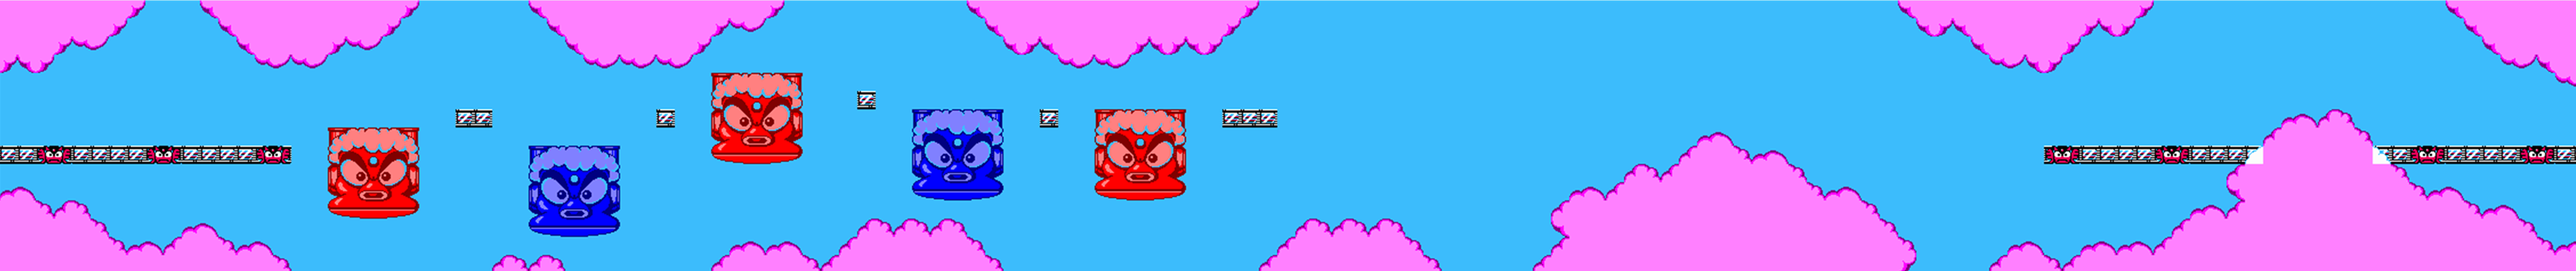
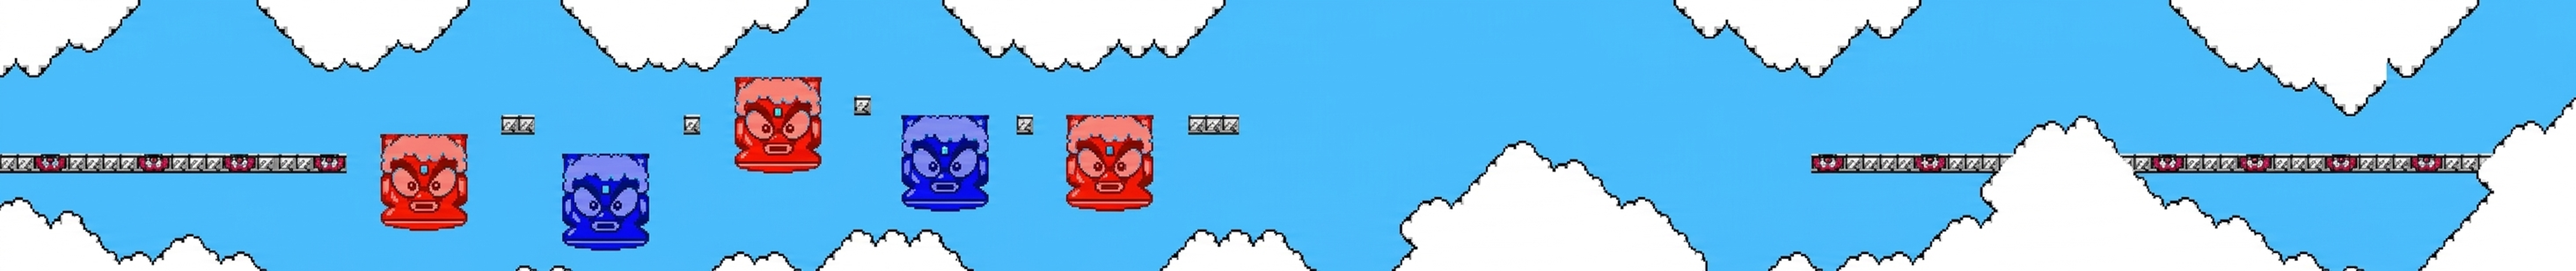
Update background resources and fix all positions

diff --git a/src/Menu/ScreenGameplay.cpp b/src/Menu/ScreenGameplay.cpp
@@ -14,30 +14,25 @@
 
 const std::array<Rectangle, 7> ScreenGameplayState::kPlatforms{
 	// Initial floor
-	Rectangle{ 0.0f,    429.0f, 860.0f, 56.0f },
+	Rectangle{ 0.f, 455.f, 1021.f, 56.f },
 
 	//Small platforms, from left to right.
-	Rectangle{ 1341.0f, 322.0f, 110.0f, 56.0f },
-	Rectangle{ 1932.0f, 322.0f,  57.0f, 56.0f },
-	Rectangle{ 2524.0f, 268.0f,  57.0f, 56.0f },
-	Rectangle{ 3062.0f, 322.0f,  56.0f, 56.0f },
-	Rectangle{ 3600.0f, 322.0f, 164.0f, 56.0f },
+	Rectangle{ 1477.f, 341.f,  97.f, 56.f },
+	Rectangle{ 2014.f, 343.f,  48.f, 54.f },
+	Rectangle{ 2517.f, 288.f,  48.f, 52.f },
+	Rectangle{ 2996.f, 343.f,  46.f, 54.f },
+	Rectangle{ 3501.f, 341.f, 148.f, 56.f },
 
 	// Last long floor (until end).
-	Rectangle{
-		6020.0f,
-		429.0f,
-		8593.f - 6020.0f,
-		56.0f
-	}
+	Rectangle{ 5336.f, 456.f, 7588.f - 5336.f, 55.f }
 };
 
 const std::array<Vector2, 5> ScreenGameplayState::kCopipiSpawns{
-	Vector2{750.f, 374.f},
-	Vector2{1600.f, 267.f},
-	Vector2{2850.f, 267.f},
-	Vector2{3550.f, 267.f},
-	Vector2{6500.f, 374.f}
+    Vector2{  890.f, 400.f },
+    Vector2{ 1710.f, 288.f },
+    Vector2{ 2806.f, 288.f },
+    Vector2{ 3453.f, 286.f },
+    Vector2{ 6025.f, 401.f }
 };
 
 ScreenGameplayState::ScreenGameplayState()
@@ -60,7 +55,7 @@ void ScreenGameplayState::InitScreen(void)
 	gameManager.SetGameResult(GameResult::Playing);
 	gameManager.ResetCamera();
 
-	stageTexture_ = LoadTexture("resources/Game/Stages/AirManStage_Backup.png");
+	stageTexture_ = LoadTexture("resources/Game/Stages/AirManStage.png");
 
 	// Player
 	player_.InitGameCharacter();
@@ -80,20 +75,20 @@ void ScreenGameplayState::InitScreen(void)
 
 	// Lifts
 	liftTexture_ = LoadTexture("resources/Game/Enemies/Lift.png");
-	lifts_[0].Init(3900.f, 4500.f, 322.f, false, liftTexture_);
-	lifts_[1].Init(4600.f, 5200.f, 480.f, true,  liftTexture_);
-	lifts_[2].Init(5300.f, 5900.f, 322.f, false, liftTexture_);
+	lifts_[0].Init(3751.f, 4199.f, 341.f, false, liftTexture_);
+	lifts_[1].Init(4274.f, 4722.f, 491.f, true,  liftTexture_);
+	lifts_[2].Init(4798.f, 5246.f, 341.f, false, liftTexture_);
 
 	// Dragons
 	redDragonTexture_ = LoadTexture("resources/Game/Enemies/RedDemon.png");
 	blueDragonTexture_ = LoadTexture("resources/Game/Enemies/BlueDemon.png");
 	hornTexture_ = LoadTexture("resources/Game/Enemies/DragonHorn.png");
 
-	dragons_[0].Init(1100.f, 340.f, 480.f, false, redDragonTexture_, hornTexture_);
-	dragons_[1].Init(1690.f, 390.f, 480.f, true,  blueDragonTexture_, hornTexture_);
-	dragons_[2].Init(2230.f, 220.f, 310.f, false, redDragonTexture_, hornTexture_);
-	dragons_[3].Init(2820.f, 320.f, 410.f, true,  blueDragonTexture_, hornTexture_);
-	dragons_[4].Init(3360.f, 320.f, 410.f, false, redDragonTexture_, hornTexture_);
+	dragons_[0].Init(1248.f, 262.f, 402.f, false, redDragonTexture_, hornTexture_);
+	dragons_[1].Init(1784.f, 370.f, 460.f, true,  blueDragonTexture_, hornTexture_);
+	dragons_[2].Init(2291.f, 233.f, 323.f, false, redDragonTexture_, hornTexture_);
+	dragons_[3].Init(2784.f, 256.f, 346.f, true,  blueDragonTexture_, hornTexture_);
+	dragons_[4].Init(3268.f, 345.f, 435.f, false, redDragonTexture_, hornTexture_);
 
 	// HUD
 	playerIconTexture_ = LoadTexture("resources/UI/MegaManIcon.png");
@@ -188,12 +183,12 @@ void ScreenGameplayState::DrawScreen(void)
 		lift.DrawGameCharacter();
 	}
 
-	for (auto& enemy : enemies_) {
-		enemy.DrawGameCharacter();
-	}
-
 	for (auto& dragon : dragons_) {
 		dragon.DrawGameCharacter();
+	}
+
+	for (auto& enemy : enemies_) {
+		enemy.DrawGameCharacter();
 	}
 
 	player_.DrawGameCharacter();

diff --git a/src/Game/Managers/GameManager.cpp b/src/Game/Managers/GameManager.cpp
@@ -26,8 +26,8 @@ GameManager& GameManager::GetGameManager()
 }
 
 GameManager::GameManager()
-{
-}
+    : font(GetFontDefault()) // no font is provided so we set it to default
+{}
 
 
 void GameManager::InitGame()
